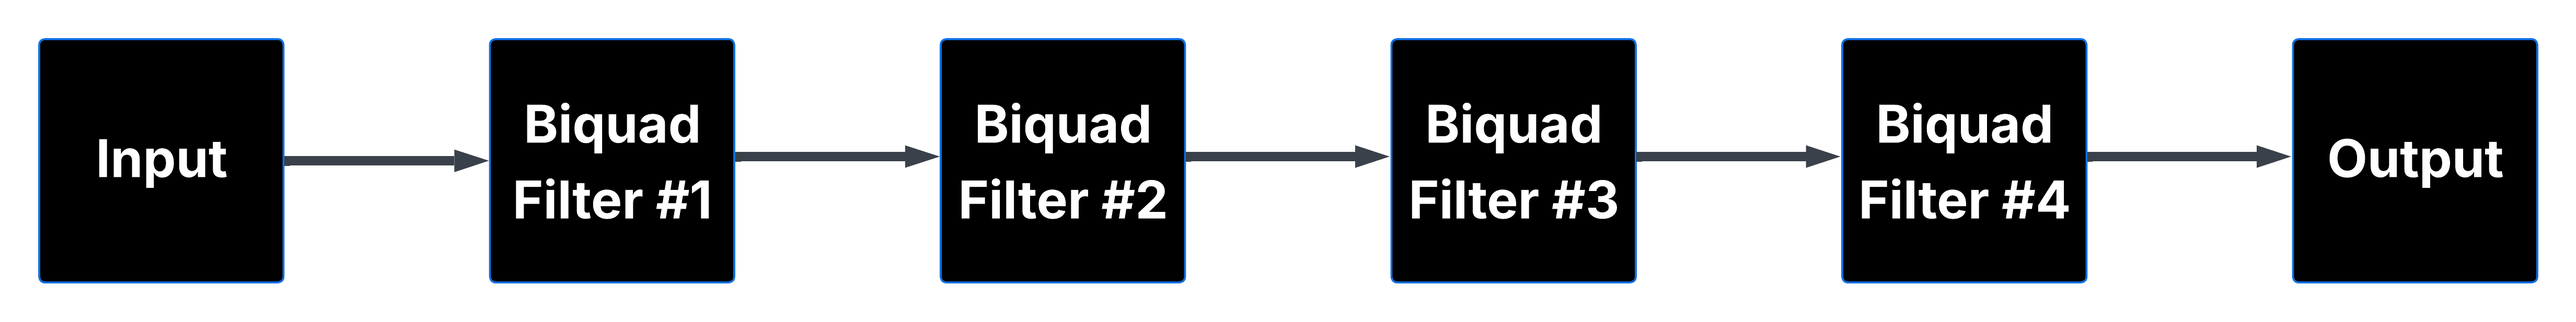
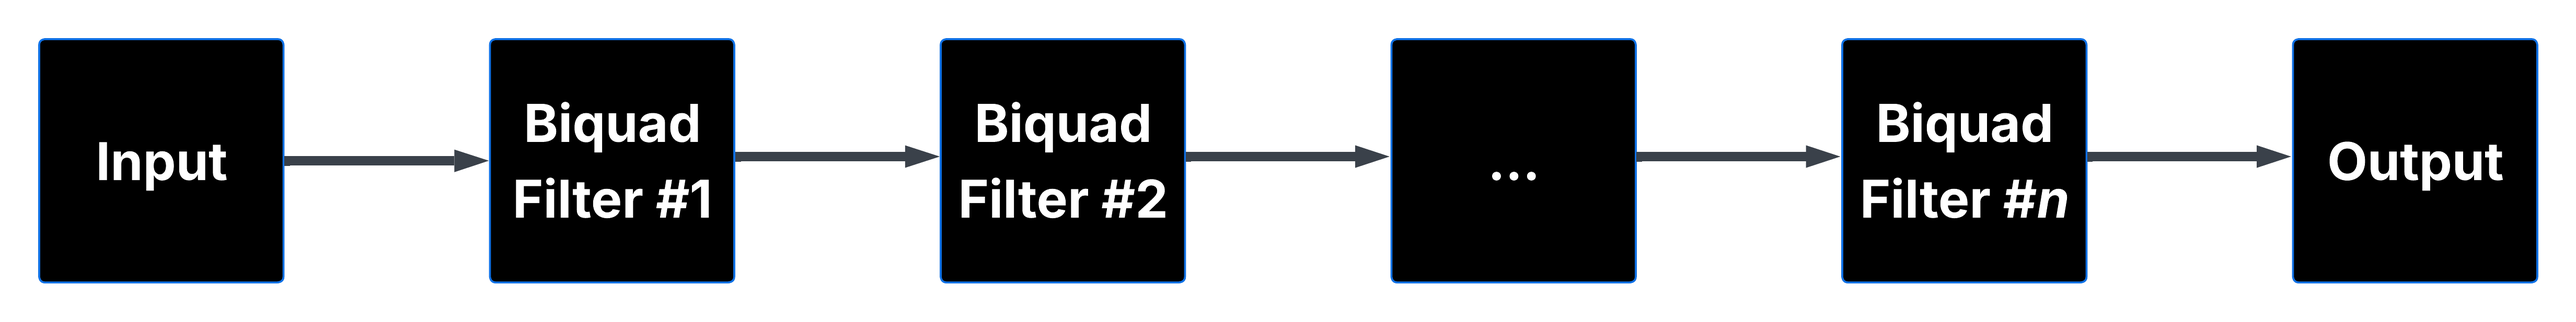
Flow chart; font size
Updating flow chart graphic. Increase plot font size to improve legibility.

diff --git a/src/roomshaker.py b/src/roomshaker.py
@@ -256,7 +256,7 @@ class plot:
         font_scale = 1 / scaling
 
         # Figure
-        plt.rcParams.update({'font.size': 10})
+        plt.rcParams.update({'font.size': 16})
         screen_dpi = window.winfo_fpixels('1i')
         self.fig, self.ax = plt.subplots(nrows=2, ncols=1, sharex=True, dpi=screen_dpi*font_scale)
 
@@ -417,7 +417,7 @@ def main():
     screenheight = window.winfo_screenheight()
     screenwidth = window.winfo_screenwidth()
     window.minsize(int(0.4*screenwidth), int(0.7*screenheight))
-    window.geometry(f"{int(0.7*screenwidth)}x{int(0.7*screenheight)}")
+    window.geometry(f"{int(0.5*screenwidth)}x{int(0.7*screenheight)}")
     window.resizable(True, True)
     window.title("ROOM SHAKER")
     icon = PhotoImage(file = os.path.join(os.path.dirname(__file__), "imgs\\icon.png"))
